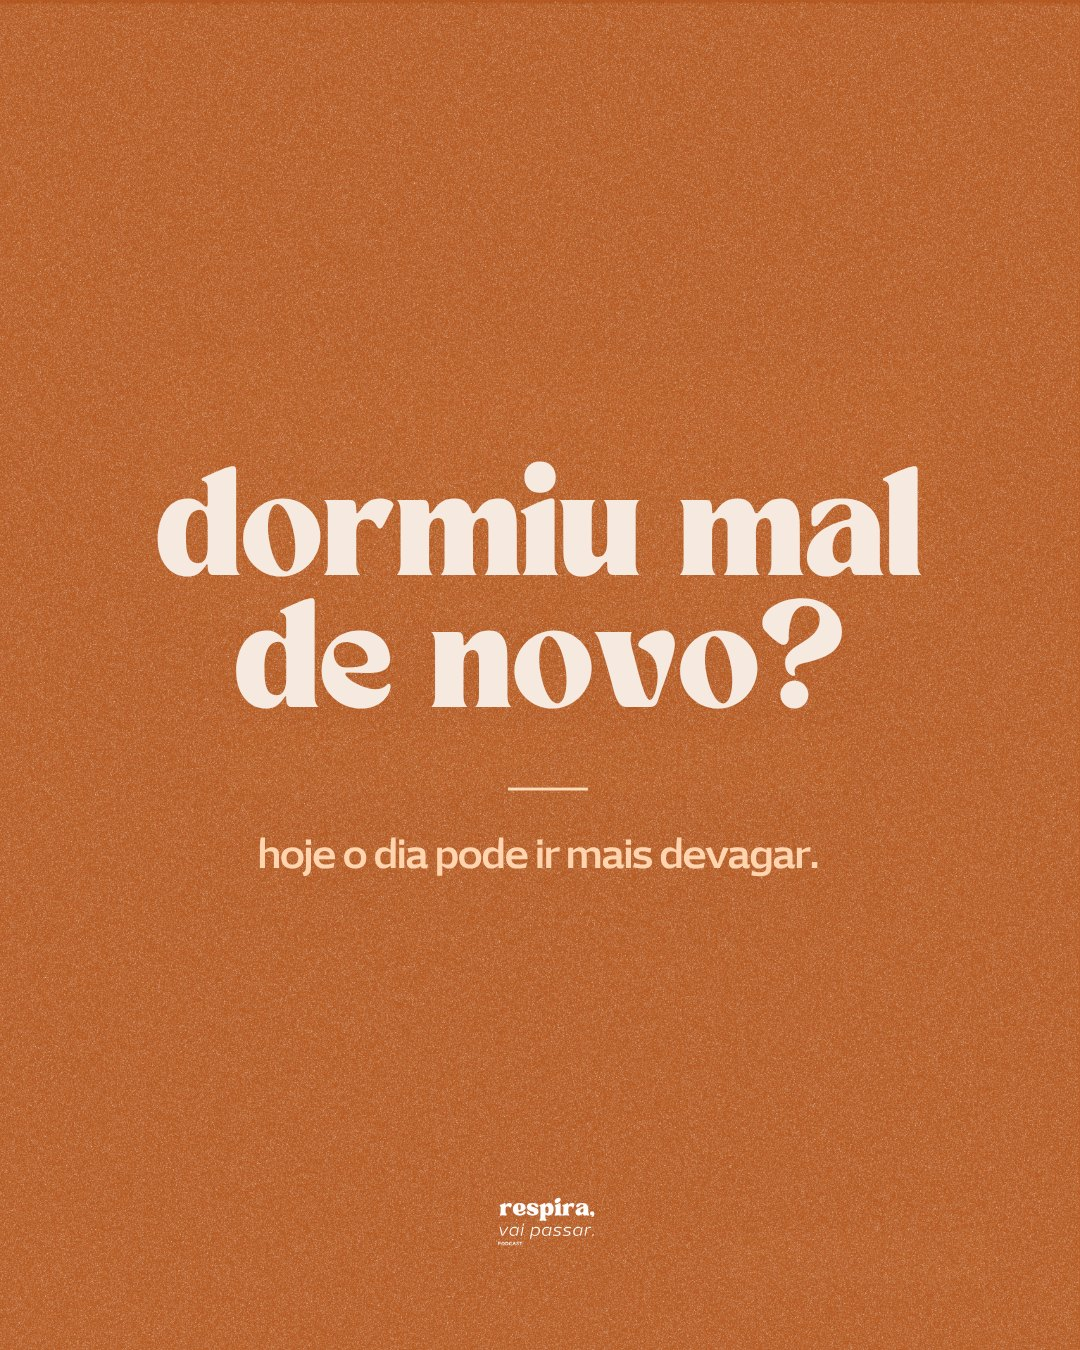
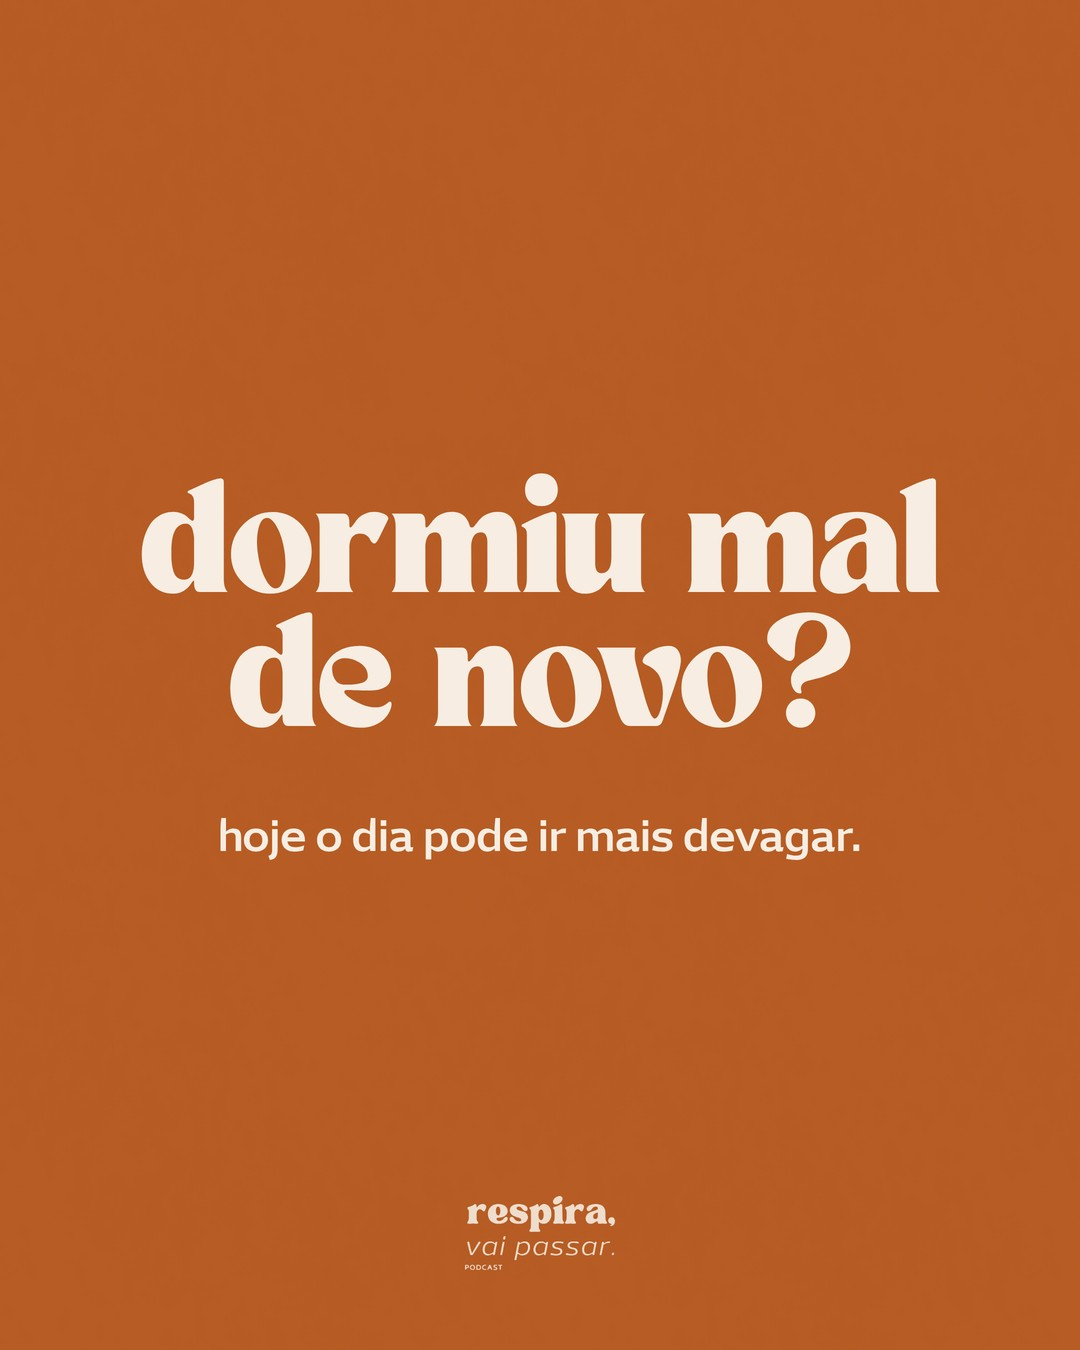
Posts de 12/12 a 09/01 refeitos com a crítica de direção de arte
Claude-Session: https://claude.ai/code/session_01C5h4HANprbeLZgGFpCYk5C

Changed region(s): [[0.0, 0.0, 1.0, 1.0]]

diff --git a/posts_data.js b/posts_data.js
@@ -117,35 +117,35 @@ const POSTS = [
   { data:"2026-12-10", tema:"Corte do episódio", placeholder:true },
   { data:"2026-12-11", tema:"Carrossel do episódio", placeholder:true },
   { data:"2026-12-12", tema:"Respiro", tipo:"imagem", titulo:"Respiro: dormiu mal de novo? hoje o dia pode ir mais devagar.", legenda:"Acordou três vezes, ou cinco, ou perdeu a conta. E o dia começou do mesmo jeito.\n\nHoje dá pra baixar a régua. Comida simples, roupa no cesto mais um dia, cochilo junto com o bebê se ele deixar. O que ficar pra amanhã, fica.\n\nSalva pra ler na próxima madrugada difícil.\n\n#SonoDoBebê #Puerpério #MaternidadeReal #RespiraVaiPassar", slides:[
-      {img:"imagens/p25-1.jpg"}
+      {img:"imagens/p25-1.jpg?v=2"}
     ] },
   { data:"2026-12-14", tema:"Corte do episódio", placeholder:true },
   { data:"2026-12-15", tema:"Tema da semana", placeholder:true },
   { data:"2026-12-17", tema:"Corte do episódio", placeholder:true },
   { data:"2026-12-18", tema:"Carrossel do episódio", placeholder:true },
   { data:"2026-12-19", tema:"Humor", tipo:"imagem", titulo:"Eu me tranco no banheiro pra fugir das minhas filhas", legenda:"Porta trancada, celular na mão, alguns minutos fora daquela realidade. A Luisa admitiu que faz isso desde que a Sofia era bebê e alguém batia na porta pedindo pra agilizar. Anos depois, continua. Ela sabe que um dia vai sentir falta de ouvir \"mamãe, mamãe, mamãe\". Hoje, às vezes, só quer cinco minutos de banheiro. Essa foi uma das confissões do episódio 30, um bate-papo mais curto entre a Luisa e a Marcinha sobre o que muita mãe pensa e não fala.\n\nTem mais confissão de mãe que ninguém admite no episódio 30. Link na bio.\n\n#RespiraVaiPassar #MaternidadeReal #HumorMaterno", slides:[
-      {img:"imagens/p26-1.jpg?v=2"}
+      {img:"imagens/p26-1.jpg?v=3"}
     ] },
   { data:"2026-12-21", tema:"Corte do episódio", placeholder:true },
   { data:"2026-12-22", tema:"Tema da semana", placeholder:true },
   { data:"2026-12-24", tema:"Corte do episódio", placeholder:true },
   { data:"2026-12-25", tema:"Carrossel do episódio", placeholder:true },
   { data:"2026-12-26", tema:"Respiro", tipo:"imagem", titulo:"Respiro: visita demais no fim de ano? dá pra dizer hoje não.", legenda:"Fim de ano junta família, visita, bebê passando de colo em colo e uma agenda que quase nunca é a sua.\n\nDizer que hoje não dá também é cuidar do bebê e de você. Pode ser outro dia, pode ser uma visita mais curta, pode ser por foto.\n\nCompartilha com quem vai receber visita nesses dias.\n\n#FimDeAno #Puerpério #RedeDeApoio #MaternidadeReal #RespiraVaiPassar", slides:[
-      {img:"imagens/p27-1.jpg"}
+      {img:"imagens/p27-1.jpg?v=2"}
     ] },
   { data:"2026-12-28", tema:"Corte do episódio", placeholder:true },
   { data:"2026-12-29", tema:"Tema da semana", placeholder:true },
   { data:"2026-12-31", tema:"Corte do episódio", placeholder:true },
   { data:"2027-01-01", tema:"Carrossel do episódio", placeholder:true },
   { data:"2027-01-02", tema:"Humor", tipo:"imagem", titulo:"Quem pode tocar na sua barriga de grávida", legenda:"Tem gente que acha que barriga de grávida é propriedade pública. No episódio sobre gestação, a Marcinha e a Luisa falam sobre as polêmicas que toda mulher grávida enfrenta: quem pode tocar na barriga, o que fazer com o ranço do parceiro sumindo, se dá pra conversar com o bebê e como fica a vida sexual durante a gravidez. Respira fundo e lembra: seu corpo, suas regras.\n\nA resposta pra essa pergunta rende risada garantida. Episódio 3, link na bio.\n\n#RespiraVaiPassar #Gestação #MaternidadeReal", slides:[
-      {img:"imagens/p28-1.jpg?v=3"}
+      {img:"imagens/p28-1.jpg?v=4"}
     ] },
   { data:"2027-01-04", tema:"Corte do episódio", placeholder:true },
   { data:"2027-01-05", tema:"Tema da semana", placeholder:true },
   { data:"2027-01-07", tema:"Corte do episódio", placeholder:true },
   { data:"2027-01-08", tema:"Carrossel do episódio", placeholder:true },
   { data:"2027-01-09", tema:"Respiro", tipo:"imagem", titulo:"Respiro: começar o ano sem meta nenhuma também conta.", legenda:"Janeiro chega cheio de lista: voltar a treinar, organizar a casa, ler mais, dar conta de tudo.\n\nCom um bebê em casa, chegar inteira no fim do dia já é muita coisa. A lista pode esperar o tempo que for preciso.\n\nManda pra uma mãe que começou o ano se cobrando.\n\n#MaternidadeReal #Puerpério #SaúdeMentalMaterna #RespiraVaiPassar", slides:[
-      {img:"imagens/p29-1.jpg"}
+      {img:"imagens/p29-1.jpg?v=2"}
     ] },
   { data:"2027-01-11", tema:"Corte do episódio", placeholder:true },
   { data:"2027-01-12", tema:"Tema da semana", placeholder:true },

diff --git a/index.html b/index.html
@@ -322,7 +322,7 @@ summary.list-title .count{color:var(--muted);font-weight:400;letter-spacing:0;te
 
 <script src="https://www.gstatic.com/firebasejs/10.12.2/firebase-app-compat.js"></script>
 <script src="https://www.gstatic.com/firebasejs/10.12.2/firebase-firestore-compat.js"></script>
-<script src="posts_data.js?v=20261125d"></script>
+<script src="posts_data.js?v=20261125e"></script>
 <script>
 const $ = s => document.querySelector(s);
 const ICON = {
